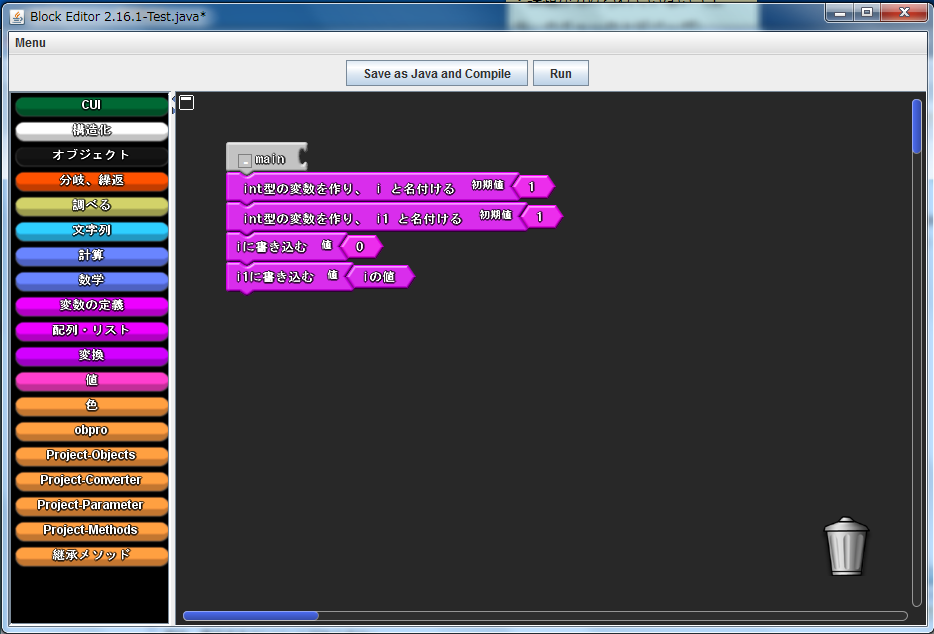
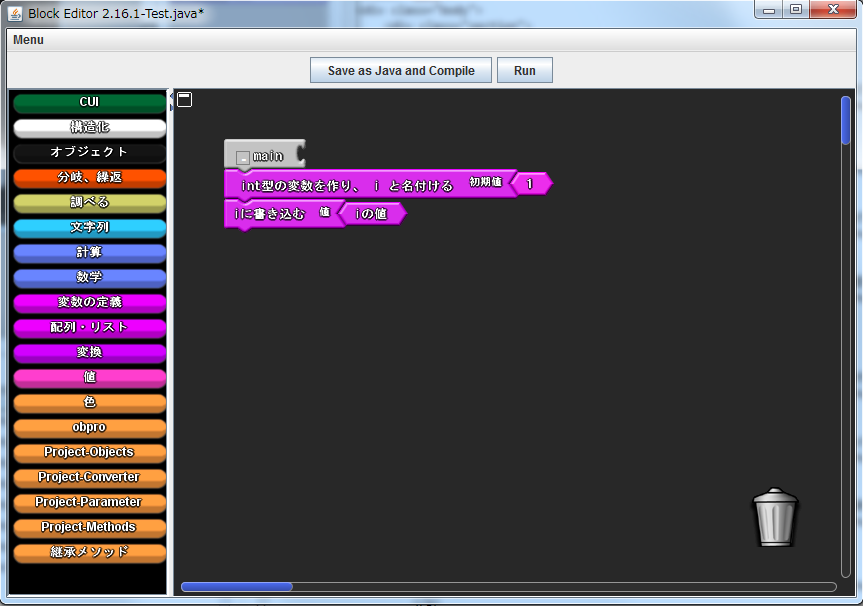
変数の利用のページプロトタイプ

Changed region(s): [[0.0, 0.0, 1.0, 1.0], [0.241, 0.2079, 0.6628, 0.4752], [0.8737, 0.802, 0.934, 0.9208]]

diff --git a/BEHomePage/HomePagesrc/LocalVariable.html b/BEHomePage/HomePagesrc/LocalVariable.html
@@ -37,37 +37,68 @@
 	</div>
 	<div class="main">
 		<div class="cont">
-
-	
-
 			<div class="body">
 				<div class="section">
 				
 				<h2>変数の宣言</h2>
-<p>左側にある「変数の宣言」というカテゴリ（ここではファクトリと呼びます）をクリックし，任意の型のブロックを取り出します．</p>
-<p><img src="http://Ohata1016.github.com/BlockEditorSite/BEHomePage/img/defineLocalVariable1.png"  border='0' style='width:60%' /><br>
-</p>
+				
+					<p>左側にある「変数の宣言」というカテゴリ（ここではファクトリと呼びます）をクリックし，任意の型のブロックを取り出します．</p>
+					<p><img src="http://Ohata1016.github.com/BlockEditorSite/BEHomePage/img/defineLocalVariable1.png"  border='0' style='width:60%' /><br>
+					</p>
 
-<p>取り出したブロックをmainと書かれたブロックの下に結合します．</p>
-<p><img src="http://Ohata1016.github.com/BlockEditorSite/BEHomePage/img/defineLocalVariable2.png"  border='0' style='width:60%' /><br>
-</p>
+					<p>取り出したブロックをmainと書かれたブロックの下に結合します．</p>
+					<p><img src="http://Ohata1016.github.com/BlockEditorSite/BEHomePage/img/defineLocalVariable3.png"  border='0' style='width:60%' /><br>
+					</p>
 
-<p>これで変数の宣言が出来ました．BlockEditor上部にある，「Sava as Java」ボタンをクリックすることで，Javaのソースコードを出力できます．</p>
-<p><img src="http://Ohata1016.github.com/BlockEditorSite/BEHomePage/img/defineLocalVariable3.png"  border='0' style='width:60%' /><br>
-</p>
-				<h2>変数への値の書き込み</h2>
+					<p>これで変数の宣言が出来ました．BlockEditor上部にある，「Sava as Java」ボタンをクリックすることで，Javaのソースコードを出力できます．</p>
+					<p><img src="http://Ohata1016.github.com/BlockEditorSite/BEHomePage/img/defineLocalVariable4.png"  border='0' style='width:60%' /><br>
+					</p>
+					
+					<p>変数名を変えるには，変数宣言ブロックの名前部分をクリックします．すると，キーボードから直接入力することができます．</p>
+					<p><img src="http://Ohata1016.github.com/BlockEditorSite/BEHomePage/img/defineLocalVariable4.png"  border='0' style='width:60%' /><br>
+					</p>					
 				
-				<h2>変数への値の参照</h2>
+				<h2>変数への値の代入</h2>
 				
-				
+					<p>値を代入する変数の宣言ブロックを右クリックします．すると，ポップアップメニューが表示されます．この中の「「書き込みブロック」の作成」というメニューをクリックします．</p>
+					<p><img src="http://Ohata1016.github.com/BlockEditorSite/BEHomePage/img/writeInLocalVariable1.png"  border='0' style='width:60%' /><br>
+					</p>
+
+					<p>値を書き込むブロックが作成されました．このブロックの右側にある凹みに，書き込む値のブロックを結合します．数値や文字列などの値を表すブロックは，「値」というファクトリから作成することができます．</p>
+					<p><img src="http://Ohata1016.github.com/BlockEditorSite/BEHomePage/img/writeInLocalVariable2.png"  border='0' style='width:60%' /><br>
+					</p>
+					
+					<p>値などのブロックは，ブロックを左クリックすると値を書き換えることができます．下の例では，整数の値ブロックの値を0に書き換えています．</p>
+					<p><img src="http://Ohata1016.github.com/BlockEditorSite/BEHomePage/img/writeInLocalVariable3.png"  border='0' style='width:60%' /><br>
+					</p>
+
+					<p>Save as Javaをクリックすると，以下の様なプログラムが出力されます．</p>
+					<p><img src="http://Ohata1016.github.com/BlockEditorSite/BEHomePage/img/writeInLocalVariable4.png"  border='0' style='width:60%' /><br>
+					</p>
+					
+				<h2>変数の値の参照</h2>
+
+					<p>値を参照したい変数の宣言ブロックを右クリックします．すると，ポップアップメニューが表示されます．この中の「「値ブロック」の作成」というメニューをクリックします．</p>
+					<p><img src="http://Ohata1016.github.com/BlockEditorSite/BEHomePage/img/writeInLocalVariable5.png"  border='0' style='width:60%' /><br>
+					</p>
+					
+					<p?値を参照するブロックが作成されました．このブロックを利用したいブロックへ結合します．</p>
+
+					<p>下の例では，i1と名付けられた変数に，iという変数の値ブロックを結合しています．</p>
+					<p><img src="http://Ohata1016.github.com/BlockEditorSite/BEHomePage/img/writeInLocalVariable7.png"  border='0' style='width:60%' /><br>
+					</p>
+					
+					<p>Save as Javaをクリックすると，以下の様なプログラムが出力されます．．</p>
+					<p><img src="http://Ohata1016.github.com/BlockEditorSite/BEHomePage/img/writeInLocalVariable8.png"  border='0' style='width:60%' /><br>
+					</p>
 
 <p><a href="http://ohata1016.github.io/BlockEditorSite/BEHomePage/HomePagesrc/Project.html">&lt;&lt;BlockEditor Hinokiの起動まで</a> <a href="http://ohata1016.github.io/BlockEditorSite/BEHomePage/HomePagesrc/InputOutput.html">入出力&gt;&gt;</a></p>
 <p><a href="http://ohata1016.github.com/BlockEditorSite/BEHomePage">目次</a></p>
 
 
   
-</div>
-		</div>
+				</div>
+			</div>
 		<div style="clear: both"></div>
 	</div>
 </body></html>
